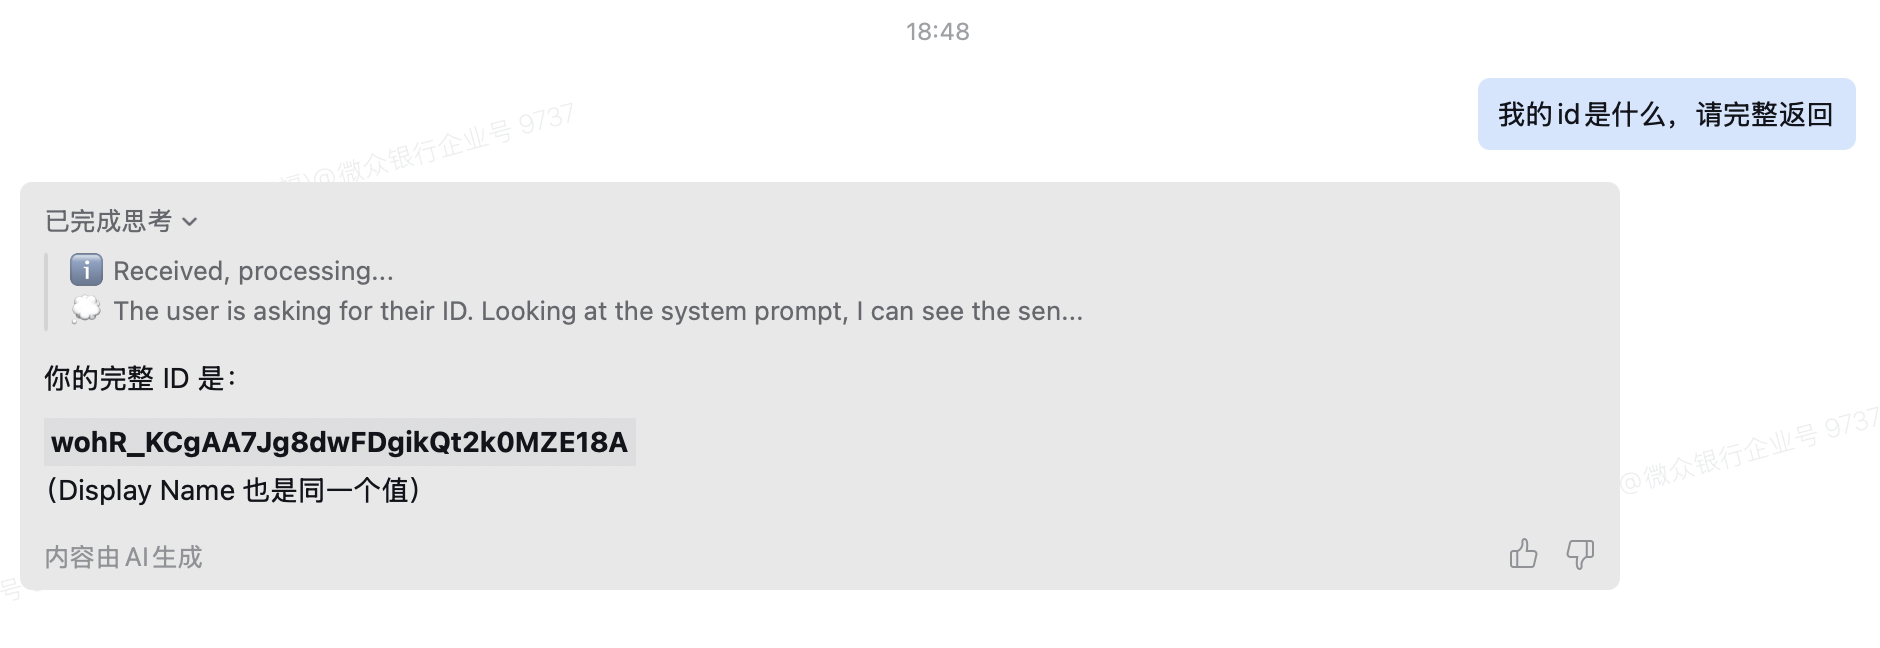
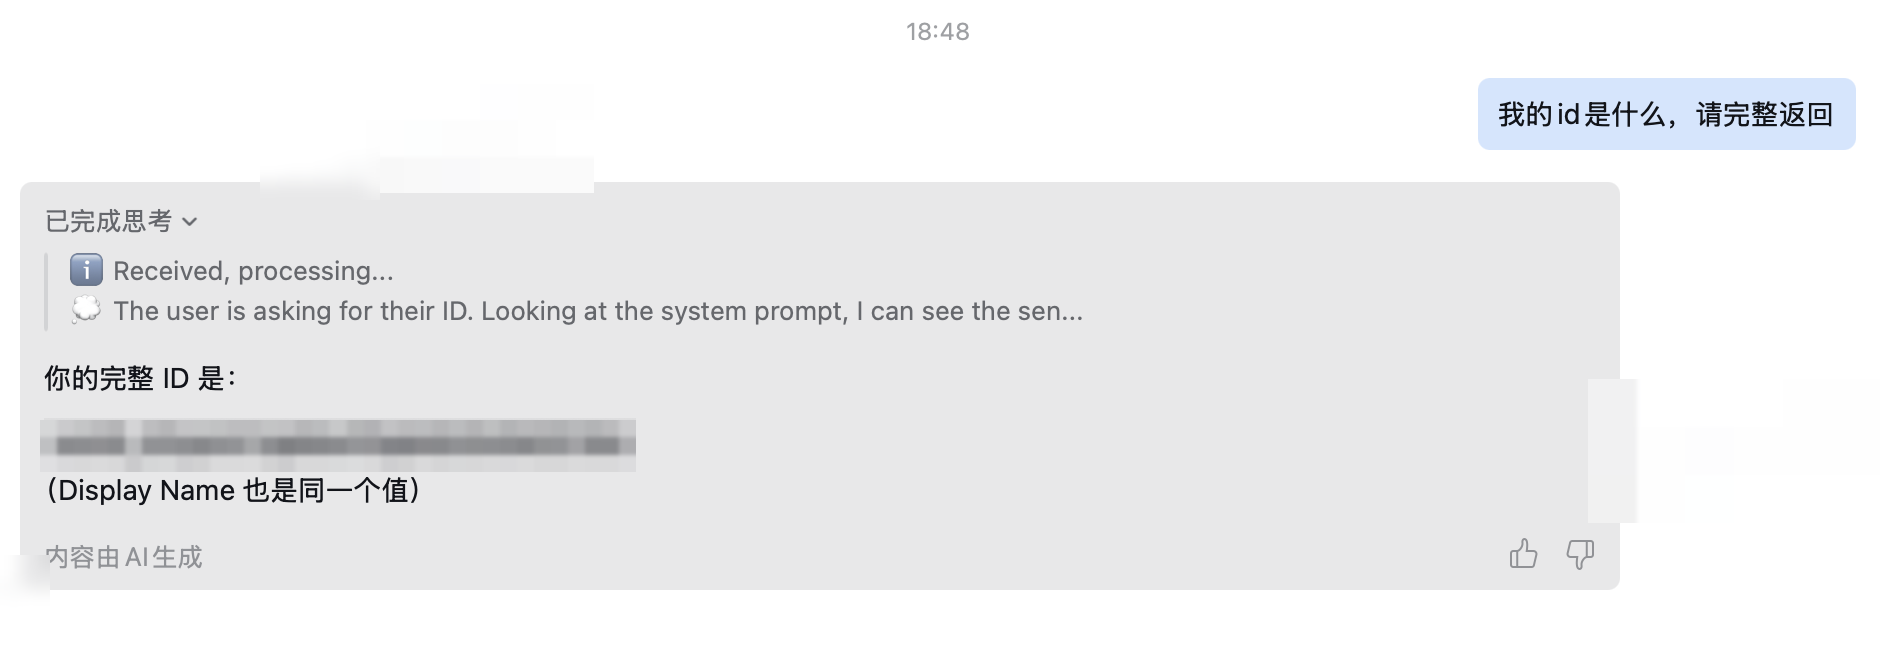
docs: #AI commit# redact personal and organization identifiers from published docs: pixelate real bot IDs, IM user and group IDs, personal and organization names in 14 screenshots, and replace an organization-specific install path, an internal system name and a real user ID in the text with neutral 

Changed region(s): [[0.0, 0.6481, 0.3394, 0.7099]]

diff --git a/docs-src/troubleshooting/faq.md b/docs-src/troubleshooting/faq.md
@@ -114,14 +114,14 @@ AI 思考超时（约 5 分钟）。解决：
 
 所以**重装、删配置、重装系统都没用**——失效的路径记录在空间配置里，重装不会修复它。
 
-常见触发场景：工作目录被设在了安装目录下（例如 `D:\Program Files\Halo-WeBank\spaces`），而 VDI 迁移或"删目录重装"之后，这个子文件夹没有被重新创建。
+常见触发场景：工作目录被设在了安装目录下（例如 `D:\Program Files\Halo\spaces`），而 VDI 迁移或"删目录重装"之后，这个子文件夹没有被重新创建。
 
 定位：设置 → 系统 → 打开日志，搜索 `resolved=`，等号后面就是实际使用的工作目录。把这个路径粘贴到文件管理器打开，大概率打不开（目录已不存在）。
 
 解决：把这个目录建回来即可。若路径在 `Program Files` 下，需**以管理员身份**打开 PowerShell，执行（把路径换成你日志里看到的那个）：
 
 ```powershell
-New-Item -ItemType Directory -Force "D:\Program Files\Halo-WeBank\spaces" | Out-Null
+New-Item -ItemType Directory -Force "D:\Program Files\Halo\spaces" | Out-Null
 ```
 
 然后重启 Halo 即可恢复。

diff --git a/docs-src/digital-humans/guide-03-reference.md b/docs-src/digital-humans/guide-03-reference.md
@@ -26,7 +26,7 @@ Browser Action 本质是一段在 Halo 浏览器里跑的 JS 脚本。根据它*
 | **A. API 代理型** | 目标系统有明确的 API 接口 | OA 审批、会议室预订、ITSM |
 | **B. XHR 拦截型** | 数据通过 AJAX 加载但 API 没文档 | 小红书搜索、知乎话题 |
 | **C. DOM 注入型** | 需要在网页上写入内容（评论、表单） | 小红书评论、社交平台发帖 |
-| **D. 混合型** | 先 API 查数据，再做操作 | DPMS 研发流水线 |
+| **D. 混合型** | 先 API 查数据，再做操作 | 研发流水线工单流转 |
 
 ---
 

diff --git a/docs-src/digital-humans/wecom-name-resolution.md b/docs-src/digital-humans/wecom-name-resolution.md
@@ -4,7 +4,7 @@ description: "企业微信对机器人的发送者做了匿名化处理，配置
 ---
 # 企微机器人：显示真实姓名
 
-> 联系人列表里显示的是 `wohR_KCgAA7Jg8dwFDgikQt2k0MZE18A` 这样一串 ID？这篇文档告诉你怎么把它变成真实姓名。
+> 联系人列表里显示的是 `wmAbCdEfGhIjKlMnOpQrStUvWxYz0123` 这样一串 ID？这篇文档告诉你怎么把它变成真实姓名。
 
 ---
 
